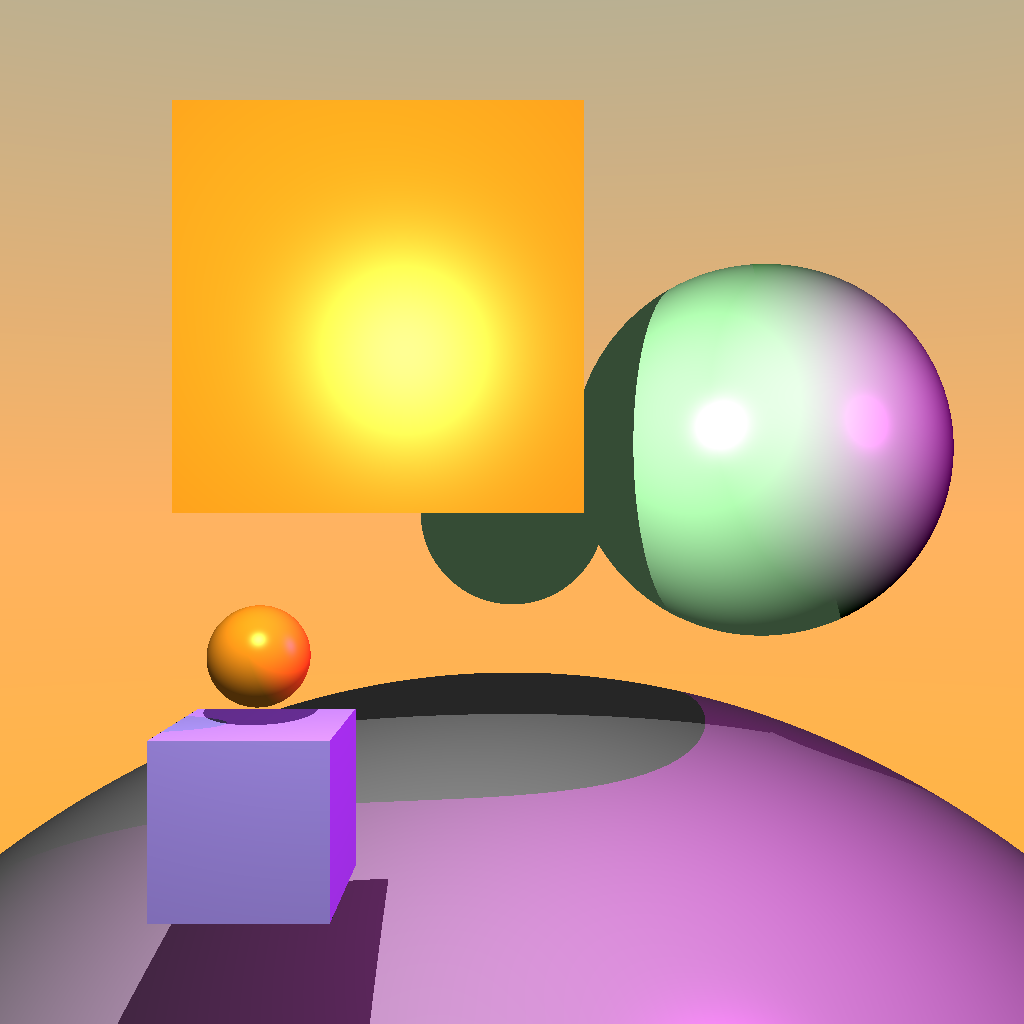
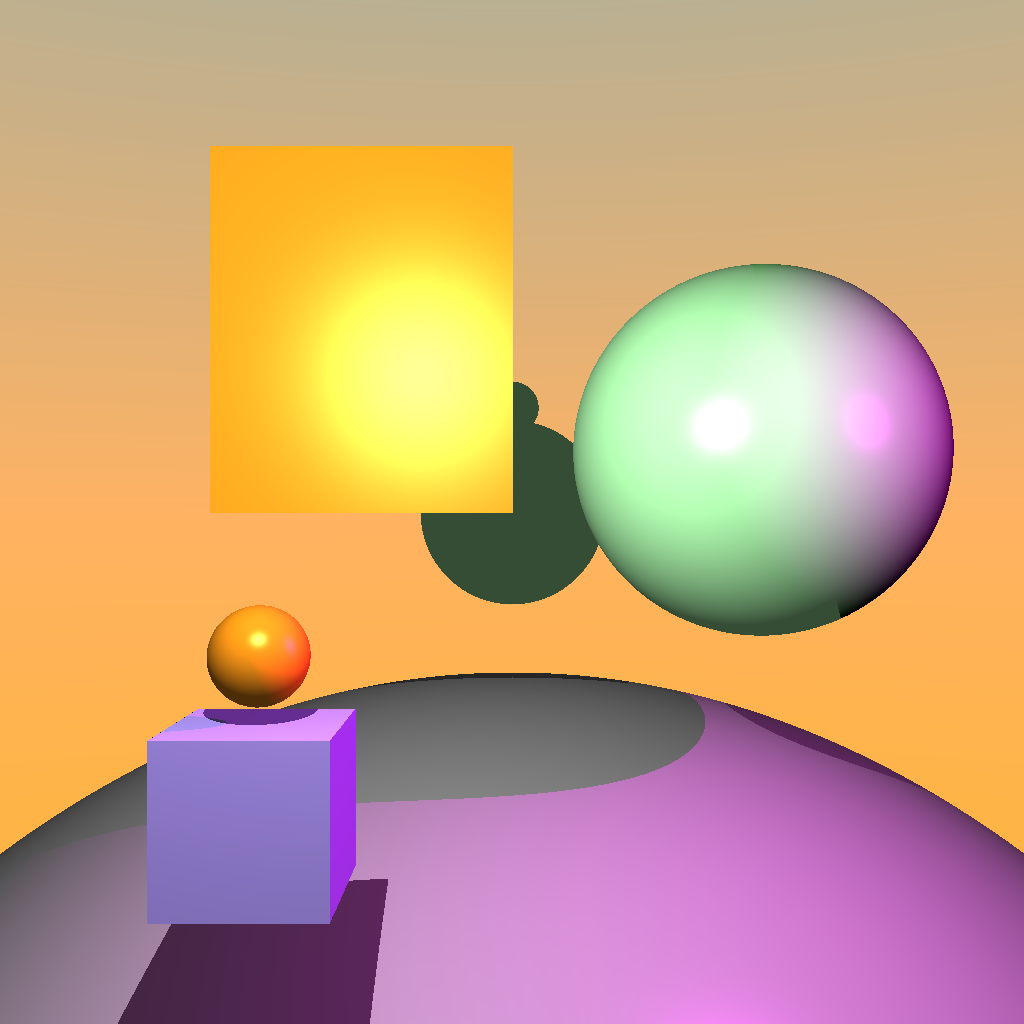
A1-4 finished

Changed region(s): [[0.1562, 0.0938, 0.6562, 0.5938], [0.2812, 0.6562, 0.75, 0.7188]]

diff --git a/A4/Mesh.cpp b/A4/Mesh.cpp
@@ -100,13 +100,13 @@ Mesh::Mesh(const std::string &fname)
 
   vec3 temp = max_vec - min_vec;
   // std::cout << to_string(temp) << std::endl;
-  double max_sz = max(max(temp.x, temp.y), temp.z);
-  nh_box = new NonhierBox(min_vec, max_sz);
+  // double max_sz = max(max(temp.x, temp.y), temp.z);
+  nh_box = new NonhierBox(min_vec, temp);
   // #endif
 }
 
-Mesh::Mesh(const glm::vec3 &m_pos, double m_size)
-    : m_vertices(), m_faces(), fname("cube.obj")
+Mesh::Mesh(const glm::vec3 &m_pos, vec3 &m_size)
+    : m_vertices(), m_faces(), fname("cube.obj"), nh_box(nullptr)
 {
   std::string code;
   double vx, vy, vz;
@@ -118,8 +118,8 @@ Mesh::Mesh(const glm::vec3 &m_pos, double m_size)
     if (code == "v")
     {
       ifs >> vx >> vy >> vz;
-      glm::vec3 vec = glm::vec3(vx, vy, vz);
-      vec *= m_size;
+      
+      glm::vec3 vec = glm::vec3(vx * m_size.x, vy * m_size.y, vz * m_size.z);
       vec += m_pos;
       m_vertices.push_back(vec);
     }
@@ -188,6 +188,7 @@ bool Mesh::intersected(Ray &ray, float tmin, float tmax, HitRecord &rec)
 #else
   HitRecord temp;
   temp.t = std::numeric_limits<float>::max();
+
   if (nh_box && !nh_box->intersected(ray, tmin, tmax, temp))
   {
     return isIntersected;
@@ -197,7 +198,7 @@ bool Mesh::intersected(Ray &ray, float tmin, float tmax, HitRecord &rec)
   for (Triangle triangle : m_faces)
   {
     float t;
-
+  
     if (rayTriangleIntersect(ray.getOrigin(), ray.getDirection(),
                              m_vertices[triangle.v1], m_vertices[triangle.v2], m_vertices[triangle.v3], t) &&
         t < tClosest && t > tmin)
@@ -207,6 +208,7 @@ bool Mesh::intersected(Ray &ray, float tmin, float tmax, HitRecord &rec)
 
       normal = cross(m_vertices[triangle.v2] - m_vertices[triangle.v1], m_vertices[triangle.v3] - m_vertices[triangle.v1]);
     }
+  
   }
 
   if (isIntersected)

diff --git a/A2/A2.cpp b/A2/A2.cpp
@@ -529,24 +529,23 @@ void A2::perspective(double x_mov)
 void A2::initView()
 {
 
-	glm::vec3 lookat(0.0f, 0.0f, -1.0f);
-	glm::vec3 cam_pos(0.0f, 0.0f, 5.0f);
-	glm::vec3 up(0.0f, 1.0f, 0.0f);
+	vec3 lookat(0.0f, 0.0f, -1.0f);
+	vec3 cam_pos(0.0f, 0.0f, 10.0f);
+	vec3 up(0.0f, 1.0f, 0.0f);
 
-	glm::vec3 z((lookat - cam_pos) / glm::distance(lookat, cam_pos)); // using pts to get normalized
-	glm::vec3 x(glm::cross(z, up) / glm::distance(glm::cross(z, up), glm::vec3(0.0f)));
-	glm::vec3 y(glm::cross(x, z));
+	vec3 z((lookat - cam_pos) / distance(lookat, cam_pos)); // using pts to get normalized
+	vec3 x(cross(z, up) / distance(cross(z, up), vec3(0.0f)));
+	vec3 y(cross(x, z));
 
-	glm::mat4 R{
+	mat4 R{
 		vec4(x, 0),
 		vec4(y, 0),
 		vec4(z, 0),
 		vec4(0.0f, 0.0f, 0.0f, 1.0f),
 	};
-
 	R = transpose(R);
 
-	glm::mat4 T(1.0f);
+	mat4 T(1.0f);
 	T[3].z = -cam_pos.z;
 	model_to_view = R * T;
 }
@@ -554,7 +553,7 @@ void A2::initView()
 void A2::initProj()
 {
 	float aspect = m_windowWidth / m_windowHeight;
-	float cot_fov = cos(radians(fov)) / sin(radians(fov));
+	float cot_fov = cos(radians(fov/2)) / sin(radians(fov/2));
 
 	proj = transpose(mat4{
 		cot_fov / aspect,
@@ -974,7 +973,10 @@ bool A2::mouseButtonInputEvent(
 		{
 			axis.z = false;
 		}
-		m_mouseButtonActive = false;
+		if (!(axis.x || axis.y || axis.z)) {
+			m_mouseButtonActive = false;
+		}
+		
 		eventHandled = true;
 	}
 

diff --git a/A4/GeometryNode.cpp b/A4/GeometryNode.cpp
@@ -50,14 +50,17 @@ void GeometryNode::setTexture( Texture *texture )
 }
 
 bool GeometryNode::intersected(Ray &ray, float tmin, HitRecord &rec) {
+	// std::cout << "Geometry " <<  m_name << std::endl;
 	HitRecord tempRec;
 
 	vec4 transOrig = invtrans * vec4(ray.getOrigin(), 1.0);
 	vec4 transDir = invtrans * vec4(ray.getDirection(), 0.0);
 	Ray transRay = Ray(vec3(transOrig.x, transOrig.y, transOrig.z),
 	vec3(transDir.x, transDir.y, transDir.z));
+	// if (m_primitive == nullptr) std::cout << "no" << std::endl;
 
 	bool isIntersected = m_primitive->intersected(transRay, tmin, rec.t, tempRec);
+	// std::cout << "Geometry back" << std::endl;
 
 	if (isIntersected) {
 		rec.t = tempRec.t;

diff --git a/A1/A1.cpp b/A1/A1.cpp
@@ -50,8 +50,8 @@ A1::A1()
 	block_col[1] = 0.2f;
 	block_col[2] = 0.4f;
 
-	floor_col[0] = 0.3f;
-	floor_col[1] = 0.5f;
+	floor_col[0] = 0.4f;
+	floor_col[1] = 0.7f;
 	floor_col[2] = 0.7f;
 
 	avatar_col[0] = 1.0f;
@@ -378,8 +378,8 @@ void A1::reset()
 	block_col[1] = 0.2f;
 	block_col[2] = 0.4f;
 
-	floor_col[0] = 0.3f;
-	floor_col[1] = 0.5f;
+	floor_col[0] = 0.4f;
+	floor_col[1] = 0.7f;
 	floor_col[2] = 0.7f;
 
 	avatar_col[0] = 1.0f;
@@ -399,6 +399,7 @@ void A1::reset()
 
 	// maze
 	block_size = 1;
+	m.reset();
 	maze_digged = false;
 
 	// avatar

diff --git a/A4/A4.cpp b/A4/A4.cpp
@@ -14,13 +14,12 @@ vec3 ray_trace(Ray &ray, SceneNode *root, const glm::vec3 & ambient,
 
 	HitRecord rec;
 	rec.t = std::numeric_limits<float>::max();
-
+	rec.texture = nullptr;
 	if (root->intersected(ray, 0.00001f, rec)){
 		// get colour of the closet object
 		PhongMaterial *material = static_cast<PhongMaterial *>(rec.material);
 
 		if (!(rec.texture || material)) goto noIntersection;
-
 		vec3 kd = rec.texture ? rec.texture->colour(rec.u, rec.v) : material->kd();
 		vec3 ks = rec.texture ? rec.texture->colour(rec.u, rec.v) : material->ks();
 

diff --git a/A3/A3.cpp b/A3/A3.cpp
@@ -16,6 +16,8 @@ using namespace std;
 #include <glm/gtc/matrix_transform.hpp>
 #include <glm/ext.hpp>
 
+#include <algorithm>
+
 using namespace glm;
 
 static bool show_gui = true;
@@ -916,7 +918,7 @@ void A3::selectOrDisselectJoints(unsigned int nodeId, SceneNode &node)
 				}
 				else
 				{
-					auto it = find(selectedJoints.begin(), selectedJoints.end(), &node);
+					auto it = std::find(selectedJoints.begin(), selectedJoints.end(), &node);
 					if (it != selectedJoints.end())
 					{
 						selectedJoints.erase(it);

diff --git a/A4/Primitive.cpp b/A4/Primitive.cpp
@@ -88,7 +88,13 @@ bool NonhierSphere::intersected(Ray &ray, float tmin, float tmax, HitRecord &rec
 }
 
 NonhierBox::NonhierBox(const glm::vec3& pos, double size)
-    : m_pos(pos), m_size(size)
+    : m_pos(pos), m_size(size), rec_size(vec3(size, size, size))
+  {
+    m_mesh = new Mesh(pos, rec_size);
+  }
+
+  NonhierBox::NonhierBox(const glm::vec3& pos, glm::vec3 &size)
+    : m_pos(pos), m_size(1.0), rec_size(size)
   {
     m_mesh = new Mesh(pos, size);
   }

diff --git a/A4/Primitive.hpp b/A4/Primitive.hpp
@@ -50,6 +50,7 @@ private:
 class NonhierBox : public Primitive {
 public:
   NonhierBox(const glm::vec3& pos, double size);
+  NonhierBox(const glm::vec3& pos, glm::vec3 &size);
   
   virtual ~NonhierBox();
   bool intersected(Ray &ray, float tmin, float tmax, HitRecord &rec) override;
@@ -57,6 +58,7 @@ public:
 
 private:
   glm::vec3 m_pos;
+  glm::vec3 rec_size;
   Primitive *m_mesh;
   double m_size;
 };

diff --git a/A4/Mesh.hpp b/A4/Mesh.hpp
@@ -33,7 +33,7 @@ struct Triangle
 class Mesh : public Primitive {
 public:
   Mesh(const std::string& fname );
-  Mesh(const glm::vec3 &m_pos, double m_size);
+  Mesh(const glm::vec3 &m_pos, glm::vec3 &m_size);
 
   virtual ~Mesh();
 
